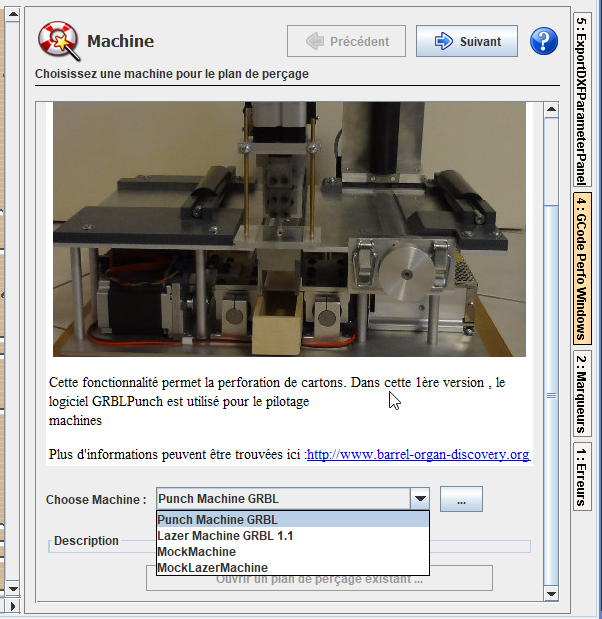
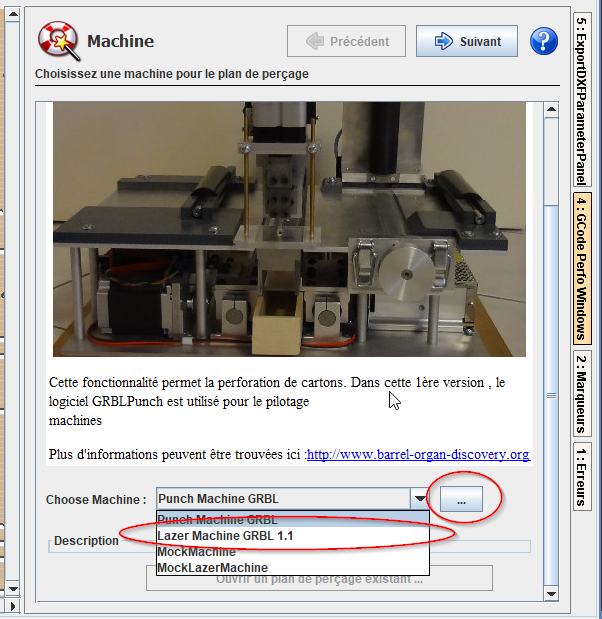
improve doc on laser

Changed region(s): [[0.1794, 0.7367, 0.8372, 0.9208]]

diff --git a/src/product/krunch/perfo_lazer.md b/src/product/krunch/perfo_lazer.md
@@ -26,13 +26,17 @@ L'utilisation des fonctions de perçage nécessite l'utilisation du GRBL 1.1 ave
 
 ### Activation et paramétrage perfo laser
 
-La perforation lazer est réalisée, à partir de la fenetre de perforation du carton
+La perforation lazer est réalisée, à partir de la fenetre de perforation du carton, sélectionnez la machine connectée, l'utilisation de la Krunch Laser peut être réalisée avec "Laser Machine GRBL 1.1", le bouton à coté permet de régler : le port de connexion, et les paramètres de découpe.
+
+
 
 ![](k2.png)
 
 
 
-Les paramètrages de du mode lazer sont accessible dans le bouton "...".
+![](k2bis.png)
+
+
 
 
 
@@ -40,7 +44,7 @@ Les paramètrages de du mode lazer sont accessible dans le bouton "...".
 
 Les paraamétrage de puissance `SXXXX`  et de vitesse `FXXXXX` sont réglés initialement dans la fenetre de paramétrage du lazer. Ce sont les valeures MAXIMALES qui sont spécifiées.
 
-Ainsi dans les autres parmétrages utilisés dans les propriétés de planification, il sera retenu la définition de la fraction de la puissance MAXIMALE.
+Ainsi dans les autres paramétrages utilisés dans les propriétés de planification, il sera retenu la définition de la fraction de la puissance MAXIMALE.
 
 Par exemple, si dans la vitesse maximale, la valeur 500 est retenue, en paramétrant ensuite une fraction de 0.5, la puissance retenue sera donné par la valeur 500 * 0.5 = 250 pour l'envoi machine.
 
@@ -62,6 +66,14 @@ les paramétrages de taille max de découpe, ponts, ou espacement entre les pont
 
 L'affichage est actualisé en temps réel en fonction des paramètres saisie, permettant de controler le resultat.
 
+L'optimisation du trajet du laser est effectué par PAGE pour l'optimisation est défini par le paramètre. Taille de la page d'optimisation. (en CM), dans la limite des 1000 objets à optimiser.
+
+![](k6.png)
+
+
+
+
+
 #### Choix des paramètres de découpe
 
 
@@ -70,7 +82,7 @@ L'affichage est actualisé en temps réel en fonction des paramètres saisie, pe
 
 Le choix de l'export des trous, permet de préparer une découpe uniquement avec les pliures. Il a été constaté que la réalisation des pliures, sans allers et retours améliorait la régularité des pages de cartons et donc l'apparence du carton une fois pliée (les cartons ne font pas l'accordéon une fois pliés).
 
-La taille des trous et pont, permettent de définir le resultat comme suit :
+La taille des trous et pont, permettent de définir le résultat comme suit :
 
 ![](SchemaTransformationPneumatique.png)
 
@@ -96,4 +108,4 @@ Des paramètres de pliures, permettent de définir des pliures sous forme de poi
 
 Plusieures passent de découpe peuvent être réaliseé pour les trous, ou les pliures, en fonction de la puissance maximale du lazer.
 
-Le choix d'utilisation de la 2eme passe est réalisée par l'activation de la coche 'deux passes', les facteurs de réglage de la vitesse et de la puissance peuvent être spécifiés. 
+Le choix d'utilisation de la 2eme passe est réalisée par l'activation de la coche '**deux passes**', les facteurs de réglage de la vitesse et de la puissance peuvent être spécifiés. 

diff --git a/src/product/krunch/fenetre_de_pilotage_machine.md b/src/product/krunch/fenetre_de_pilotage_machine.md
@@ -47,6 +47,3 @@ En jaune apparait les déplacements et poinçonnages déjà réalisés.
 
 
 
-
-
-
